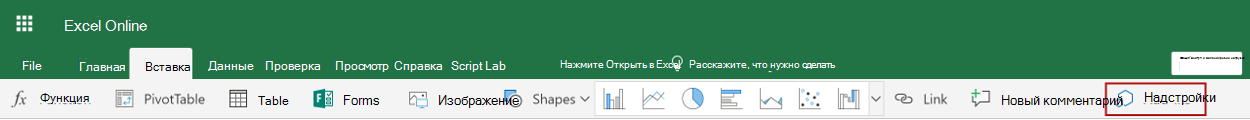
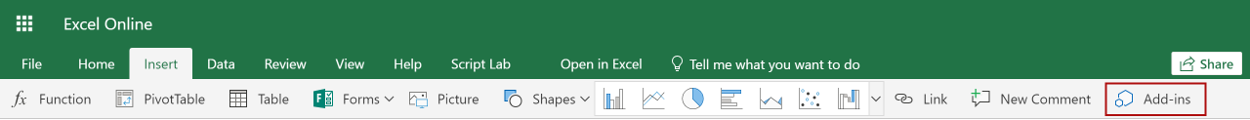
commit translated contents

diff --git a/docs/concepts/browsers-used-by-office-web-add-ins.md b/docs/concepts/browsers-used-by-office-web-add-ins.md
@@ -1,14 +1,14 @@
 ---
 title: Браузеры, используемые надстройками Office
 description: Указывается, как операционная система и версия Office определяют браузер, используемый надстройками Office.
-ms.date: 07/27/2021
+ms.date: 08/09/2021
 localization_priority: Normal
-ms.openlocfilehash: c04502ab490d6b555ae4c581f120aeef260825a5dce00c437de086ccf20e03bc
-ms.sourcegitcommit: 4f2c76b48d15e7d03c5c5f1f809493758fcd88ec
+ms.openlocfilehash: 2eb4fa20674b2b07ec73217a5542612d1cb94b9d40f9855b93ecfd60f67bbe8e
+ms.sourcegitcommit: f5d4321763e366a10f2d868fb329dbef5239c830
 ms.translationtype: MT
 ms.contentlocale: ru-RU
-ms.lasthandoff: 08/07/2021
-ms.locfileid: "57083310"
+ms.lasthandoff: 08/11/2021
+ms.locfileid: "57845594"
 ---
 # <a name="browsers-used-by-office-add-ins"></a>Браузеры, используемые надстройками Office
 
@@ -25,7 +25,7 @@ Office Надстройки — это веб-приложения, которы
 > Корпорация Майкрософт заканчивает поддержку Internet Explorer, но это не влияет на Office надстройки. Некоторые сочетания платформ и Office версий, включая все версии с одновкулярной покупкой до Office 2019 г., будут по-прежнему использовать управление веб-просмотром, которое поставляется с Internet Explorer 11, для пользования надстройки, как поводится в этой статье. Кроме того, поддержка этих комбинаций и, следовательно, internet Explorer по-прежнему требуется для надстройок, представленных [в AppSource](/office/dev/store/submit-to-appsource-via-partner-center). Меняются *две* вещи:
 >
 > - AppSource больше не тестирует надстройки в Office в Интернете с помощью Internet Explorer в качестве браузера. Но AppSource по-прежнему тестирует комбинации  платформы и Office настольных версий, которые используют Internet Explorer.
-> - Средство [Script Lab прекратит](../overview/explore-with-script-lab.md) работу в Internet Explorer в 2021 году.
+> - Средство [Script Lab](../overview/explore-with-script-lab.md) больше не поддерживает Internet Explorer.
 
 В приведенной ниже таблице указано, какой браузер используется для той или иной платформы и операционной системы.
 

diff --git a/docs/quickstarts/powerpoint-quickstart.md b/docs/quickstarts/powerpoint-quickstart.md
@@ -4,12 +4,12 @@ description: Узнайте, как создать простую надстро
 ms.date: 08/04/2021
 ms.prod: powerpoint
 localization_priority: Priority
-ms.openlocfilehash: f68dcf96231f18c43d5f1a28fcc536f0f39521a5
-ms.sourcegitcommit: e570fa8925204c6ca7c8aea59fbf07f73ef1a803
+ms.openlocfilehash: e7d4f77cf8e680d8846f8847c74df85e64f8ac85d1b3c4e92b4888361429f013
+ms.sourcegitcommit: f5d4321763e366a10f2d868fb329dbef5239c830
 ms.translationtype: HT
 ms.contentlocale: ru-RU
-ms.lasthandoff: 08/05/2021
-ms.locfileid: "53773708"
+ms.lasthandoff: 08/11/2021
+ms.locfileid: "57845672"
 ---
 # <a name="build-your-first-powerpoint-task-pane-add-in"></a>Создание первой надстройки области задач PowerPoint
 
@@ -23,7 +23,7 @@ ms.locfileid: "53773708"
 
 [!include[Redirect to the single sign-on (SSO) quick start](../includes/sso-quickstart-reference.md)]
 
-### <a name="prerequisites"></a>Необходимые условия
+### <a name="prerequisites"></a>Необходимые компоненты
 
 [!include[Set up requirements](../includes/set-up-dev-environment-beforehand.md)]
 [!include[Yeoman generator prerequisites](../includes/quickstart-yo-prerequisites.md)]
@@ -66,12 +66,6 @@ ms.locfileid: "53773708"
     > ```command&nbsp;line
     > npm run dev-server
     > ```
-
-    - Установите зависимости для надстройки в корневом каталоге проекта.
-
-        ```command&nbsp;line
-        npm install
-        ```
 
     - Чтобы проверить надстройку в PowerPoint, выполните следующую команду в корневом каталоге своего проекта. При этом запускается локальный веб-сервер (если он еще не запущен) и открывается приложение PowerPoint с загруженной надстройкой.
 

diff --git a/docs/includes/quickstart-choose-editor.md b/docs/includes/quickstart-choose-editor.md
@@ -1,1 +1,1 @@
-Надстройку Office можно создать с помощью [генератора Yeoman для надстроек Office](https://github.com/OfficeDev/generator-office) или Visual Studio. Генератор Yeoman создает проект Node.js, которым можно управлять с помощью Visual Studio Code или любого другого редактора, а Visual Studio создает решение Visual Studio. Выберите вкладку с нужным вариантом и следуйте инструкциям, чтобы создать надстройку и протестировать ее локально.
+Можно создать надстройку Office с помощью [генератора Yeoman для надстроек Office](https://github.com/OfficeDev/generator-office) или Visual Studio. Генератор Yeoman создает проект Node.js, которым можно управлять с помощью Visual Studio Code или любого другого редактора, а Visual Studio создает решение Visual Studio. Выберите вкладку с нужным вариантом и следуйте инструкциям, чтобы создать надстройку и протестировать ее локально.

diff --git a/docs/quickstarts/onenote-quickstart.md b/docs/quickstarts/onenote-quickstart.md
@@ -4,12 +4,12 @@ description: Узнайте, как создать простую надстро
 ms.date: 08/04/2021
 ms.prod: onenote
 localization_priority: Priority
-ms.openlocfilehash: d82ce959b7d9d1494c2f183c4e60ec633064a0dd33bcb40bc1ac5474dca923b0
-ms.sourcegitcommit: 4f2c76b48d15e7d03c5c5f1f809493758fcd88ec
+ms.openlocfilehash: a431b48eed7cedee75b7ef4121cec43d1777f5ecad06536752c1abedc92af725
+ms.sourcegitcommit: f5d4321763e366a10f2d868fb329dbef5239c830
 ms.translationtype: HT
 ms.contentlocale: ru-RU
-ms.lasthandoff: 08/07/2021
-ms.locfileid: "57097273"
+ms.lasthandoff: 08/11/2021
+ms.locfileid: "57845657"
 ---
 # <a name="build-your-first-onenote-task-pane-add-in"></a>Создание первой надстройки области задач OneNote
 
@@ -76,12 +76,6 @@ try {
 
     ```command&nbsp;line
     cd "My Office Add-in"
-    ```
-
-1. Установите для проекта зависимости.
-
-     ```command&nbsp;line
-    npm install
     ```
 
 1. Запустите локальный веб-сервер и загрузите неопубликованную надстройку.

diff --git a/docs/quickstarts/project-quickstart.md b/docs/quickstarts/project-quickstart.md
@@ -4,12 +4,12 @@ description: Узнайте, как создать простую надстро
 ms.date: 08/04/2021
 ms.prod: project
 localization_priority: Priority
-ms.openlocfilehash: 8cada7195d61b26867beeff87fc95ac2b2864c911b07a53540f1934fbaddc420
-ms.sourcegitcommit: 4f2c76b48d15e7d03c5c5f1f809493758fcd88ec
+ms.openlocfilehash: e135a4df75d1da02fd542d004b939c750099528cd9f5a32f932f1295958cc8f0
+ms.sourcegitcommit: f5d4321763e366a10f2d868fb329dbef5239c830
 ms.translationtype: HT
 ms.contentlocale: ru-RU
-ms.lasthandoff: 08/07/2021
-ms.locfileid: "57089432"
+ms.lasthandoff: 08/11/2021
+ms.locfileid: "57845636"
 ---
 # <a name="build-your-first-project-task-pane-add-in"></a>Создание первой надстройки области задач Project
 
@@ -94,12 +94,6 @@ Office.context.document.getSelectedTaskAsync(
 
     ```command&nbsp;line
     cd "My Office Add-in"
-    ```
-
-1. Установите для проекта зависимости.
-
-     ```command&nbsp;line
-    npm install
     ```
 
 1. Запустите локальный веб-сервер.

diff --git a/docs/quickstarts/excel-quickstart-vue.md b/docs/quickstarts/excel-quickstart-vue.md
@@ -4,12 +4,12 @@ description: Узнайте, как создать простую надстро
 ms.date: 08/04/2021
 ms.prod: excel
 localization_priority: Priority
-ms.openlocfilehash: de074b9673db6a1637733b42d8984dc5d2aacb60f8b38de535fe5e9f323e2c0f
-ms.sourcegitcommit: 4f2c76b48d15e7d03c5c5f1f809493758fcd88ec
+ms.openlocfilehash: 8cdcbc0ca30a3d68fff3ac102845fd747d160102e5cb1ceff40dea8cf819a60b
+ms.sourcegitcommit: f5d4321763e366a10f2d868fb329dbef5239c830
 ms.translationtype: HT
 ms.contentlocale: ru-RU
-ms.lasthandoff: 08/07/2021
-ms.locfileid: "57092744"
+ms.lasthandoff: 08/11/2021
+ms.locfileid: "57845615"
 ---
 # <a name="use-vue-to-build-an-excel-task-pane-add-in"></a>Создание надстройки области задач Excel с помощью Vue
 
@@ -198,12 +198,6 @@ vue create my-add-in
    ```
 
 ## <a name="start-the-dev-server"></a>Запуск сервера разработки
-
-1. Установите зависимости.
-
-     ```command&nbsp;line
-    npm install
-    ```
 
 1. Запустите сервер разработки
 

diff --git a/docs/quickstarts/outlook-quickstart.md b/docs/quickstarts/outlook-quickstart.md
@@ -4,12 +4,12 @@ description: Узнайте, как создать простую надстро
 ms.date: 08/04/2021
 ms.prod: outlook
 localization_priority: Priority
-ms.openlocfilehash: 045928e0202857f21825ceeddf0e7489ad6d9d0359b843353fefd532bbd4d48e
-ms.sourcegitcommit: 4f2c76b48d15e7d03c5c5f1f809493758fcd88ec
+ms.openlocfilehash: 4459b403641a8d0502aa5e31ba4537f134656cf831b7d98c7eccf7ed59b32525
+ms.sourcegitcommit: f5d4321763e366a10f2d868fb329dbef5239c830
 ms.translationtype: HT
 ms.contentlocale: ru-RU
-ms.lasthandoff: 08/07/2021
-ms.locfileid: "57094268"
+ms.lasthandoff: 08/11/2021
+ms.locfileid: "57845664"
 ---
 # <a name="build-your-first-outlook-add-in"></a>Создание первой надстройки Outlook
 
@@ -58,12 +58,6 @@ ms.locfileid: "57094268"
 
     ```command&nbsp;line
     cd "My Office Add-in"
-    ```
-
-1. Установите зависимости для своего проекта.
-
-     ```command&nbsp;line
-    npm install
     ```
 
 ### <a name="explore-the-project"></a>Знакомство с проектом

diff --git a/docs/includes/quickstart-vs-prerequisites.md b/docs/includes/quickstart-vs-prerequisites.md
@@ -1,7 +1,7 @@
 - [Visual Studio 2019](https://www.visualstudio.com/vs/) с установленной рабочей нагрузкой **Разработка надстроек для Office и SharePoint**
 
     > [!NOTE]
-    > Если вы уже установили Visual Studio 2019, [используйте установщик Visual Studio](/visualstudio/install/modify-visual-studio), чтобы убедиться, что также установлена рабочая нагрузка **Разработка надстроек для Office и SharePoint**. 
+    > Если вы уже установили Visual Studio 2019, [используйте установщик Visual Studio](/visualstudio/install/modify-visual-studio), чтобы убедиться, что также установлена рабочая нагрузка **Разработка надстроек для Office и SharePoint**. 
 
 - Office 2016 или более поздние версии
 

diff --git a/docs/includes/quickstart-yo-start-server-excel.md b/docs/includes/quickstart-yo-start-server-excel.md
@@ -11,12 +11,6 @@
 > npm run dev-server
 > ```
 
-- Установите зависимости для надстройки в корневом каталоге проекта.
-
-     ```command&nbsp;line
-    npm install
-    ```
-
 - Чтобы проверить надстройку в Excel, выполните приведенную ниже команду в корневом каталоге своего проекта. При этом запускается локальный веб-сервер (если он еще не запущен) и открывается приложение Excel с загруженной надстройкой.
 
     ```command&nbsp;line
